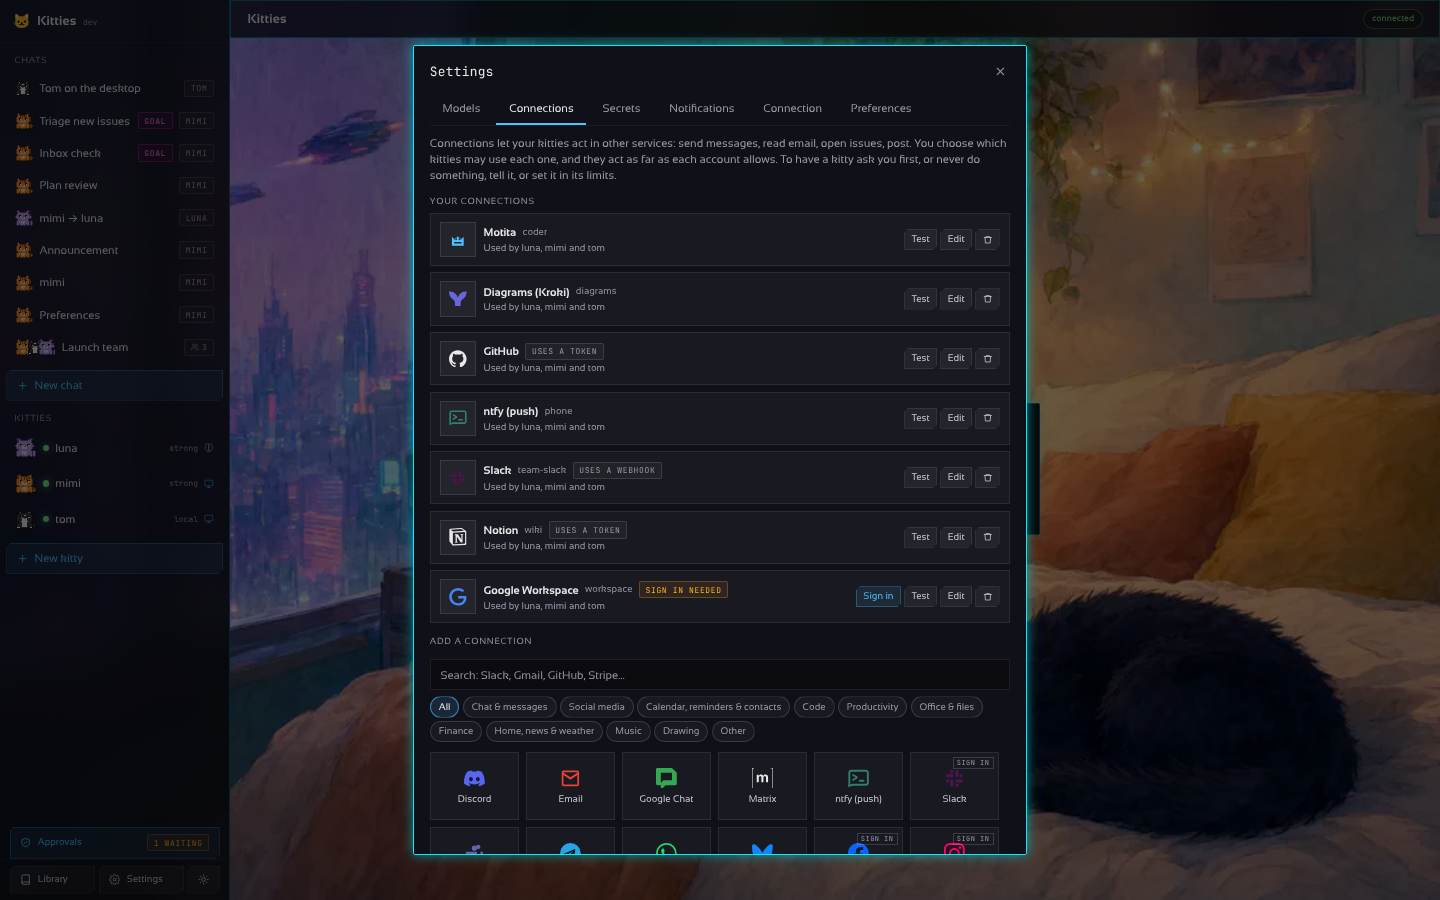
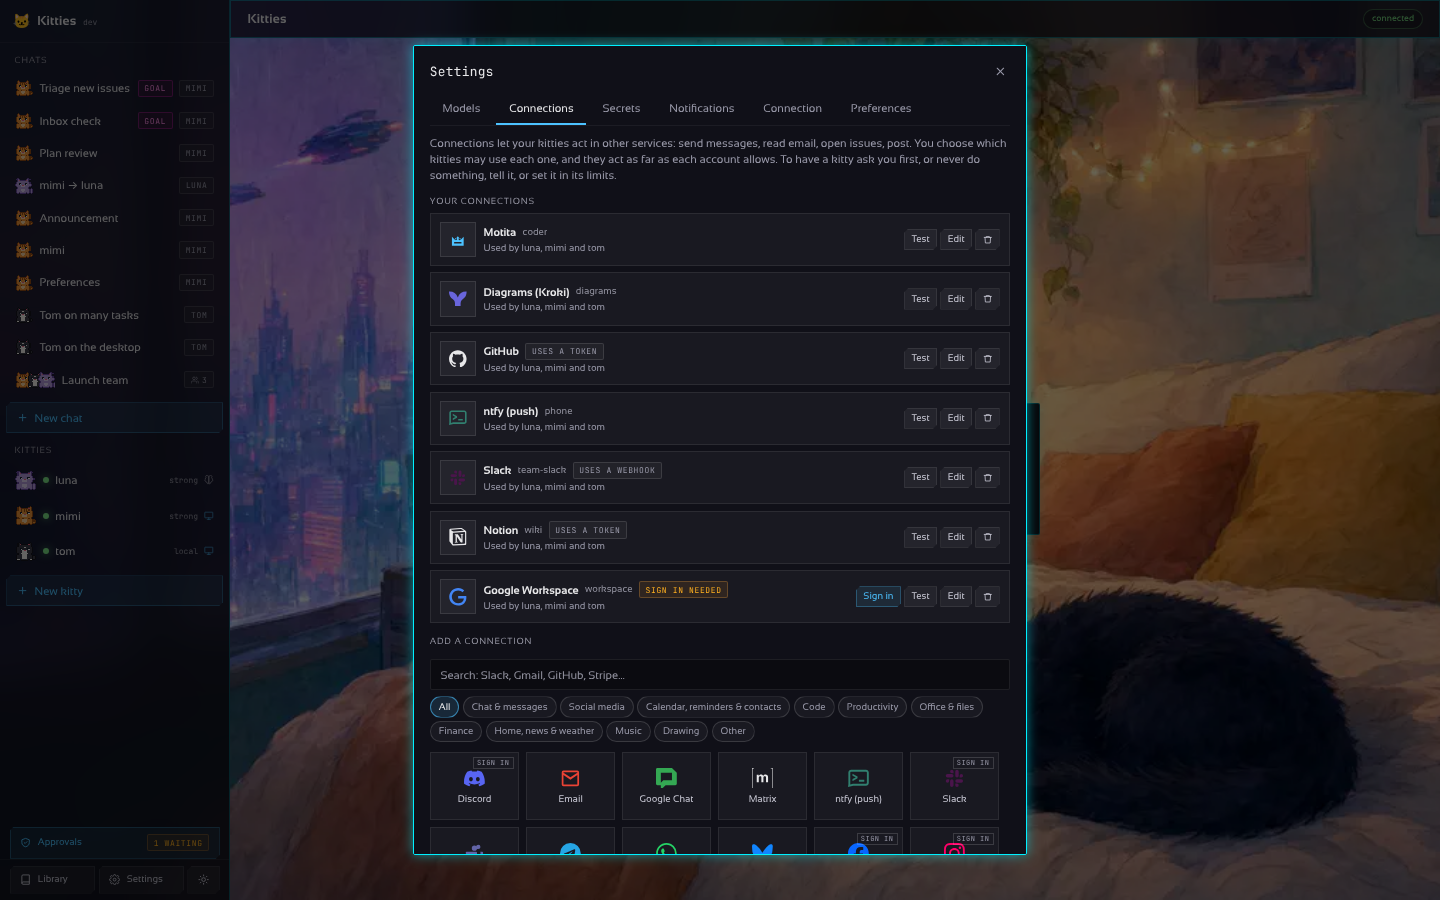
feat(connector): sign in to Discord to make the webhook
Discord's webhook.incoming scope asks for a server and channel while
consenting and hands back a webhook for it. The sign-in keeps that URL as
the connector's address, so the account token is never refreshed or sent;
a pasted webhook URL still works as the other way in.

- oauth: discord provider; Credentials.Answer carries the raw token answer
  to a provider's Finish (not saved)
- connector: discord signs in, its webhook is a key group, posts are plain
- settings: Discord label; es/pt texts; e2e checks the form and shoots it
- docs: CONFIGURATION lists Discord among the sign-ins, with a screenshot

Claude-Session: https://claude.ai/code/session_017Z7sUadcYyyx8KyMMFoCep

diff --git a/desktop/frontend/src/i18n/es/catalog.ts b/desktop/frontend/src/i18n/es/catalog.ts
@@ -229,6 +229,8 @@ const dict: Dictionary = {
   "flagged tasks and the ones due soon": "tareas marcadas y las que vencen pronto",
   "for a protected topic": "para un tema protegido",
   "from @BotFather": "de @BotFather",
+  "from the channel's settings → Integrations → Webhooks; signing in makes one":
+    "de la configuración del canal → Integraciones → Webhooks; iniciar sesión crea uno",
   "from Slack's app settings → Incoming Webhooks; it posts to the one channel it was made for":
     "de la configuración de la app de Slack → Incoming Webhooks; publica solo en el canal para el que se creó",
   "group/name": "group/name",
@@ -289,6 +291,8 @@ const dict: Dictionary = {
     "solo para iniciar sesión con una app tuya en developer.todoist.com/appconsole.html; vacío: la de Kitties",
   "only to sign in through an app of your own at developers.facebook.com; empty: Kitties' own":
     "solo para iniciar sesión con una app tuya en developers.facebook.com; vacío: la de Kitties",
+  "only to sign in through an app of your own at discord.com/developers (redirect: this gateway's /v1/oauth/callback); empty: Kitties' own":
+    "solo para iniciar sesión con una app tuya en discord.com/developers (redirect: el /v1/oauth/callback de este gateway); vacío: la de Kitties",
   "only to sign in through an app of your own at dropbox.com/developers; empty: Kitties' own":
     "solo para iniciar sesión con una app tuya en dropbox.com/developers; vacío: la de Kitties",
   "only to sign in through an app of your own at entra.microsoft.com (an app registration); empty: Kitties' own":
@@ -312,7 +316,8 @@ const dict: Dictionary = {
     "reproducir lo que mejor coincida con una búsqueda, un uri spotify:, o reanudar",
   "post a message": "publicar un mensaje",
   "post the arguments": "enviar los argumentos",
-  "posts messages to a Discord channel": "publica mensajes en un canal de Discord",
+  "posts messages to a Discord channel, through a webhook or a sign-in":
+    "publica mensajes en un canal de Discord, con un webhook o iniciando sesión",
   "posts messages to a Slack channel, through a webhook, a bot token or a sign-in":
     "publica mensajes en un canal de Slack, mediante un webhook, un token de bot o iniciando sesión",
   "posts the arguments as JSON to a URL": "envía los argumentos como JSON a una URL",

diff --git a/desktop/frontend/src/i18n/pt/catalog.ts b/desktop/frontend/src/i18n/pt/catalog.ts
@@ -229,6 +229,8 @@ const dict: Dictionary = {
   "flagged tasks and the ones due soon": "tarefas sinalizadas e as que vencem em breve",
   "for a protected topic": "para um tópico protegido",
   "from @BotFather": "do @BotFather",
+  "from the channel's settings → Integrations → Webhooks; signing in makes one":
+    "das configurações do canal → Integrações → Webhooks; fazer login cria um",
   "from Slack's app settings → Incoming Webhooks; it posts to the one channel it was made for":
     "das configurações do app do Slack → Incoming Webhooks; publica só no canal para o qual foi criado",
   "group/name": "group/name",
@@ -288,6 +290,8 @@ const dict: Dictionary = {
     "só para fazer login com um app seu em developer.todoist.com/appconsole.html; vazio: o do Kitties",
   "only to sign in through an app of your own at developers.facebook.com; empty: Kitties' own":
     "só para fazer login com um app seu em developers.facebook.com; vazio: o do Kitties",
+  "only to sign in through an app of your own at discord.com/developers (redirect: this gateway's /v1/oauth/callback); empty: Kitties' own":
+    "só para fazer login com um app seu em discord.com/developers (redirect: o /v1/oauth/callback deste gateway); vazio: o do Kitties",
   "only to sign in through an app of your own at dropbox.com/developers; empty: Kitties' own":
     "só para fazer login com um app seu em dropbox.com/developers; vazio: o do Kitties",
   "only to sign in through an app of your own at entra.microsoft.com (an app registration); empty: Kitties' own":
@@ -311,7 +315,8 @@ const dict: Dictionary = {
     "tocar o que melhor combinar com uma busca, um uri spotify:, ou retomar",
   "post a message": "publicar uma mensagem",
   "post the arguments": "enviar os argumentos",
-  "posts messages to a Discord channel": "publica mensagens em um canal do Discord",
+  "posts messages to a Discord channel, through a webhook or a sign-in":
+    "publica mensagens em um canal do Discord, com um webhook ou fazendo login",
   "posts messages to a Slack channel, through a webhook, a bot token or a sign-in":
     "publica mensagens em um canal do Slack, por um webhook, um token de bot ou fazendo login",
   "posts the arguments as JSON to a URL": "envia os argumentos como JSON para uma URL",

diff --git a/desktop/frontend/e2e/screens.spec.ts b/desktop/frontend/e2e/screens.spec.ts
@@ -304,6 +304,18 @@ test("picking a service opens its form; an OAuth kind offers the sign-in", async
   await gh.locator("#field-token").fill("ghp_demo");
   await expect(save).toBeEnabled();
   await expect(gh.getByTestId("missing")).toHaveCount(0);
+  // Discord signs in to make a webhook on the channel picked, or takes one pasted.
+  await page.getByRole("button", { name: "Cancel" }).click();
+  await page.getByLabel("Search services").fill("discord");
+  await page.locator(".service-btn", { hasText: "Discord" }).click();
+  const dc = page.getByTestId("connection-form");
+  await expect(dc.getByTestId("way-signin")).toHaveAttribute("aria-checked", "true");
+  await expect(dc.getByTestId("way-webhook")).toBeVisible();
+  await expect(page.getByTestId("connection-sign-in")).toContainText("/v1/oauth/callback");
+  await shot(page, "60-connector-discord");
+  await dc.getByTestId("way-webhook").click();
+  await expect(dc.locator("#field-url")).toBeVisible();
+  await expect(dc.getByTestId("connection-sign-in")).toHaveCount(0);
   // The saved Google connector shows the sign-in button, which asks the gateway for a consent URL.
   await open(page, "#connector/workspace");
   const signIn = page.getByRole("button", { name: "Sign in with Google" });

diff --git a/desktop/frontend/src/Settings.tsx b/desktop/frontend/src/Settings.tsx
@@ -753,6 +753,7 @@ const OAUTH_LABEL: Record<string, string> = {
   google: "Google",
   microsoft: "Microsoft",
   slack: "Slack",
+  discord: "Discord",
   github: "GitHub",
   gitlab: "GitLab",
   spotify: "Spotify",

diff --git a/internal/orchestrator/settings_test.go b/internal/orchestrator/settings_test.go
@@ -253,7 +253,7 @@ func TestConnectorNeedsAccount(t *testing.T) {
 	if err := m.SetConnector("sp", config.Connector{Kind: "spotify", Description: "music"}, ConnectorChange{}); err != nil {
 		t.Errorf("an edit of a signed-in connector = %v", err)
 	}
-	// Kinds that do not sign in are not asked for one.
+	// A webhook stands for the sign-in: none is asked for.
 	if err := m.SetConnector("dc", config.Connector{Kind: "discord", URL: "https://discord/x"}, ConnectorChange{}); err != nil {
 		t.Errorf("discord = %v", err)
 	}
@@ -374,8 +374,11 @@ func TestOAuthStore(t *testing.T) {
 	if _, err := m.OAuthApp("zz"); err == nil {
 		t.Error("unknown connector")
 	}
-	if _, err := m.OAuthApp("dc"); err == nil {
-		t.Error("discord does not sign in")
+	if _, err := m.OAuthApp("hook"); err == nil {
+		t.Error("a webhook does not sign in")
+	}
+	if app, err := m.OAuthApp("dc"); err != nil || app.Provider != "discord" {
+		t.Errorf("discord signs in: %+v %v", app, err)
 	}
 	if app, err := m.OAuthApp("sl"); err != nil || app.Provider != "slack" {
 		t.Errorf("slack signs in too: %+v %v", app, err)
@@ -390,7 +393,7 @@ func TestOAuthStore(t *testing.T) {
 	if err := m.SaveOAuthSettings("zz", nil); err == nil {
 		t.Error("an unknown connector learns nothing")
 	}
-	if names := m.OAuthConnectors(); strings.Join(names, ",") != "gw,sl" {
+	if names := m.OAuthConnectors(); strings.Join(names, ",") != "dc,gw,sl" {
 		t.Errorf("OAuthConnectors = %v", names)
 	}
 	// The slack connector has a webhook of its own: no sign-in needed; the google one has none.
@@ -400,6 +403,10 @@ func TestOAuthStore(t *testing.T) {
 	}
 	if views["sl"].NeedsSignIn || !views["gw"].NeedsSignIn || views["gw"].SignedIn {
 		t.Errorf("needs_sign_in: sl=%+v gw=%+v", views["sl"], views["gw"])
+	}
+	// A Discord webhook typed in stands for the sign-in.
+	if views["dc"].NeedsSignIn || views["dc"].Auth != connector.AuthWebhook {
+		t.Errorf("discord with a webhook = %+v", views["dc"])
 	}
 	// The refresh loop runs until its context ends, and asks nothing when nothing is due.
 	ctx, cancel := context.WithCancel(context.Background())

diff --git a/internal/connector/catalog.go b/internal/connector/catalog.go
@@ -141,8 +141,10 @@ func catalog() []Kind {
 				keyed(f("channel", "Channel", "#general: where the messages go", false, false), keyToken),
 				f("client_id", "OAuth client id", "to sign in instead of pasting a token: a Slack app of your own", false, false), f("client_secret", "OAuth client secret", "", false, true)},
 			Actions: []Action{{Name: "send", Help: "post a message", Args: []string{fText}}}, make: makeSlack, oauth: "slack"},
-		{Name: "discord", Category: CatMessaging, Label: "Discord", Help: "posts messages to a Discord channel",
-			Fields: []Field{f("url", "Webhook URL", "", true, true)}, Actions: []Action{{Name: "send", Help: "post a message", Args: []string{fText}}}, make: makeDiscord},
+		{Name: "discord", Category: CatMessaging, Label: "Discord", Help: "posts messages to a Discord channel, through a webhook or a sign-in",
+			Fields: append([]Field{keyed(f("url", "Webhook URL", "from the channel's settings → Integrations → Webhooks; signing in makes one", false, true), keyWebhook)},
+				fApp("discord.com/developers (redirect: this gateway's /v1/oauth/callback)")...),
+			Actions: []Action{{Name: "send", Help: "post a message", Args: []string{fText}}}, make: makeDiscord, oauth: "discord"},
 		{Name: "telegram", Category: CatMessaging, Label: "Telegram", Help: "sends messages through a bot",
 			Fields:  []Field{f("token", "Bot token", "from @BotFather", true, true), f("chat_id", "Chat id", "", true, false)},
 			Actions: []Action{{Name: "send", Help: "send a message", Args: []string{fText}}}, make: makeTelegram},
@@ -814,7 +816,10 @@ func makeDiscord(s Settings) Connector {
 		if err != nil {
 			return request{}, err
 		}
-		return request{method: "POST", url: s["url"], body: map[string]any{"content": text}}, nil
+		if strings.TrimSpace(s["url"]) == "" {
+			return request{}, errors.New("no webhook yet: sign in to Discord from Settings, or paste a webhook URL")
+		}
+		return request{method: "POST", url: s["url"], body: map[string]any{"content": text}, plain: true}, nil
 	}}, "send")
 }
 

diff --git a/internal/oauth/providers.go b/internal/oauth/providers.go
@@ -101,6 +101,12 @@ var Providers = map[string]Provider{
 		Name: "mastodon", Label: "Mastodon", AuthURL: "{url}/oauth/authorize", TokenURL: "{url}/oauth/token",
 		Scopes: []string{"read", "write"}, NoExpiry: true, Register: mastodonRegister, Finish: mastodonFinish,
 	},
+	"discord": {
+		// webhook.incoming makes Discord ask for the server and channel, and hand back a webhook
+		// for it: the connector posts there, so the token itself is not kept alive.
+		Name: "discord", Label: "Discord", AuthURL: "https://discord.com/oauth2/authorize", TokenURL: "https://discord.com/api/oauth2/token",
+		Scopes: []string{"webhook.incoming"}, Finish: discordFinish,
+	},
 	"home-assistant": {
 		Name: "home-assistant", Label: "Home Assistant", AuthURL: "{url}/auth/authorize", TokenURL: "{url}/auth/token", SelfClient: true,
 	},
@@ -171,6 +177,27 @@ func mastodonFinish(ctx context.Context, do HTTPDo, app App, c Credentials) (Cre
 		c.Account = "@" + me.Acct
 	}
 	return c, nil, nil
+}
+
+// discordFinish keeps the webhook the person made while consenting: the connector posts to it,
+// and it lasts until it is deleted in Discord, so nothing has to be refreshed.
+func discordFinish(ctx context.Context, do HTTPDo, app App, c Credentials) (Credentials, map[string]string, error) {
+	var answer struct {
+		Webhook struct {
+			URL       string `json:"url"`
+			Name      string `json:"name"`
+			ChannelID string `json:"channel_id"`
+		} `json:"webhook"`
+	}
+	if err := json.Unmarshal(c.Answer, &answer); err != nil || answer.Webhook.URL == "" {
+		return c, nil, errors.New("Discord returned no webhook: pick a server and a channel when it asks")
+	}
+	c.Account = answer.Webhook.Name
+	if c.Account == "" {
+		c.Account = "#" + answer.Webhook.ChannelID
+	}
+	c.RefreshToken, c.Expiry = "", time.Now().Add(forever)
+	return c, map[string]string{"url": answer.Webhook.URL}, nil
 }
 
 // xFinish learns the account's id, which mentions and likes need.

diff --git a/internal/oauth/providers_test.go b/internal/oauth/providers_test.go
@@ -357,3 +357,35 @@ func TestSpotifyRedirectUsesTheLoopbackIP(t *testing.T) {
 		t.Errorf("other services keep the address: %q", got)
 	}
 }
+
+func TestDiscordKeepsTheWebhook(t *testing.T) {
+	// Consenting makes a webhook on the channel picked: it becomes the connector's address, and
+	// the token is not refreshed (the webhook lasts until it is deleted).
+	st := &memStore{provider: "discord", id: "dc", secret: "s", settings: map[string]string{}}
+	r := &routes{answers: map[string]string{"discord.com/api/oauth2/token": `{"access_token":"at","refresh_token":"rt","expires_in":604800,
+		"webhook":{"url":"https://discord.com/api/webhooks/1/abc","name":"Kitties","channel_id":"42"}}`}}
+	m, q := signIn(t, st, r, "http://127.0.0.1:7488/v1/oauth/callback")
+	if q.Get("scope") != "webhook.incoming" || q.Get("code_challenge_method") != "S256" || q.Get("state") == "" {
+		t.Errorf("consent = %v", q)
+	}
+	if _, err := m.Exchange(context.Background(), q.Get("state"), "code"); err != nil {
+		t.Fatal(err)
+	}
+	if st.settings["url"] != "https://discord.com/api/webhooks/1/abc" || st.creds.Account != "Kitties" || st.creds.RefreshToken != "" {
+		t.Errorf("learned = %v %+v", st.settings, st.creds)
+	}
+	if m.Due("c") {
+		t.Error("a Discord sign-in is never refreshed")
+	}
+	// A webhook without a name is shown by its channel.
+	c, _, err := discordFinish(context.Background(), nil, App{}, Credentials{Answer: []byte(`{"webhook":{"url":"u","channel_id":"42"}}`)})
+	if err != nil || c.Account != "#42" {
+		t.Errorf("unnamed = %+v %v", c, err)
+	}
+	// An answer without a webhook (the person closed the picker) fails the sign-in.
+	for _, answer := range []string{`{"access_token":"at"}`, `not json`} {
+		if _, _, err := discordFinish(context.Background(), nil, App{}, Credentials{Answer: []byte(answer)}); err == nil {
+			t.Errorf("%s: no webhook must fail", answer)
+		}
+	}
+}

diff --git a/internal/connector/catalog_test.go b/internal/connector/catalog_test.go
@@ -569,3 +569,29 @@ func TestInboundKinds(t *testing.T) {
 		t.Error(err)
 	}
 }
+
+func TestDiscordSignsInForAWebhook(t *testing.T) {
+	k, _ := LookupKind("discord")
+	if k.OAuth != "discord" || !k.KeySet(Settings{"url": "https://d/w"}) || k.KeySet(Settings{}) {
+		t.Errorf("discord = %+v", k)
+	}
+	// Saved before the sign-in made its webhook: it says what to do instead of posting nowhere.
+	c, err := Build("discord", Settings{}, "")
+	if err != nil {
+		t.Fatal(err)
+	}
+	if _, err := c.Call(context.Background(), map[string]any{"text": "hi"}); err == nil || !strings.Contains(err.Error(), "sign in to Discord") {
+		t.Errorf("no webhook = %v", err)
+	}
+	// The webhook is posted to as is: the account's token never goes with it.
+	var cp capture
+	cp.install(t)
+	src := TokenSource(func(context.Context) (string, error) { return "secret", nil })
+	c, _ = Build("discord", WithTokenSource(Settings{"url": "https://d/w"}, src), "")
+	if _, err := c.Call(context.Background(), map[string]any{"text": "hi"}); err != nil {
+		t.Fatal(err)
+	}
+	if len(cp.reqs) != 1 || cp.reqs[0].Header.Get("Authorization") != "" || cp.reqs[0].URL.String() != "https://d/w" {
+		t.Errorf("sent = %v", cp.reqs)
+	}
+}

diff --git a/internal/oauth/oauth.go b/internal/oauth/oauth.go
@@ -123,6 +123,9 @@ type Credentials struct {
 	Expiry       time.Time `json:"expiry"`
 	// Account is who signed in, when the service said.
 	Account string `json:"account,omitempty"`
+	// Answer is the token answer as the service sent it, for a Finish that reads more of it
+	// (Discord's webhook); never saved.
+	Answer json.RawMessage `json:"-"`
 }
 
 // Keys of the connector settings the credentials live in.
@@ -448,7 +451,7 @@ func (m *Manager) token(ctx context.Context, p Provider, app App, secret string,
 	if account == "" {
 		account = answer.WorkspaceName
 	}
-	return Credentials{AccessToken: answer.AccessToken, RefreshToken: answer.RefreshToken, Expiry: m.now().Add(ttl), Account: account}, nil
+	return Credentials{AccessToken: answer.AccessToken, RefreshToken: answer.RefreshToken, Expiry: m.now().Add(ttl), Account: account, Answer: data}, nil
 }
 
 // refreshAhead is how long before expiry a token is refreshed: before it fails, not after.

diff --git a/internal/connector/auth_test.go b/internal/connector/auth_test.go
@@ -10,6 +10,7 @@ func TestAuthOf(t *testing.T) {
 	sl, _ := LookupKind("slack")
 	gh, _ := LookupKind("github")
 	tg, _ := LookupKind("telegram")
+	dc, _ := LookupKind("discord")
 	keys := Settings{"consumer_key": "ck", "consumer_secret": "cs", "access_token": "1-a", "access_secret": "as", "token": "t"}
 	for _, c := range []struct {
 		kind     Kind
@@ -23,6 +24,9 @@ func TestAuthOf(t *testing.T) {
 		{x, Settings{}, false, ""},
 		{sl, Settings{"url": "https://hooks/x", "token": "t"}, false, AuthWebhook},
 		{gh, Settings{"token": "t"}, false, AuthToken},
+		{dc, Settings{"url": "https://discord/w"}, false, AuthWebhook},
+		{dc, Settings{"url": "https://discord/w"}, true, AuthSignIn},
+		{dc, Settings{}, false, ""},
 		{tg, Settings{"token": "t"}, false, ""},
 	} {
 		if got := c.kind.AuthOf(c.s, c.signedIn); got != c.want {

diff --git a/internal/connector/auth.go b/internal/connector/auth.go
@@ -28,6 +28,9 @@ func (k Kind) AuthOf(s Settings, signedIn bool) string {
 		return AuthKeys
 	case k.Name == "slack" && strings.TrimSpace(s["url"]) != "":
 		return AuthWebhook
+	case k.Name == "discord" && strings.TrimSpace(s["url"]) != "" && !signedIn:
+		// A signed-in Discord posts to the webhook its sign-in made.
+		return AuthWebhook
 	case strings.TrimSpace(s["token"]) != "":
 		return AuthToken
 	case signedIn:
